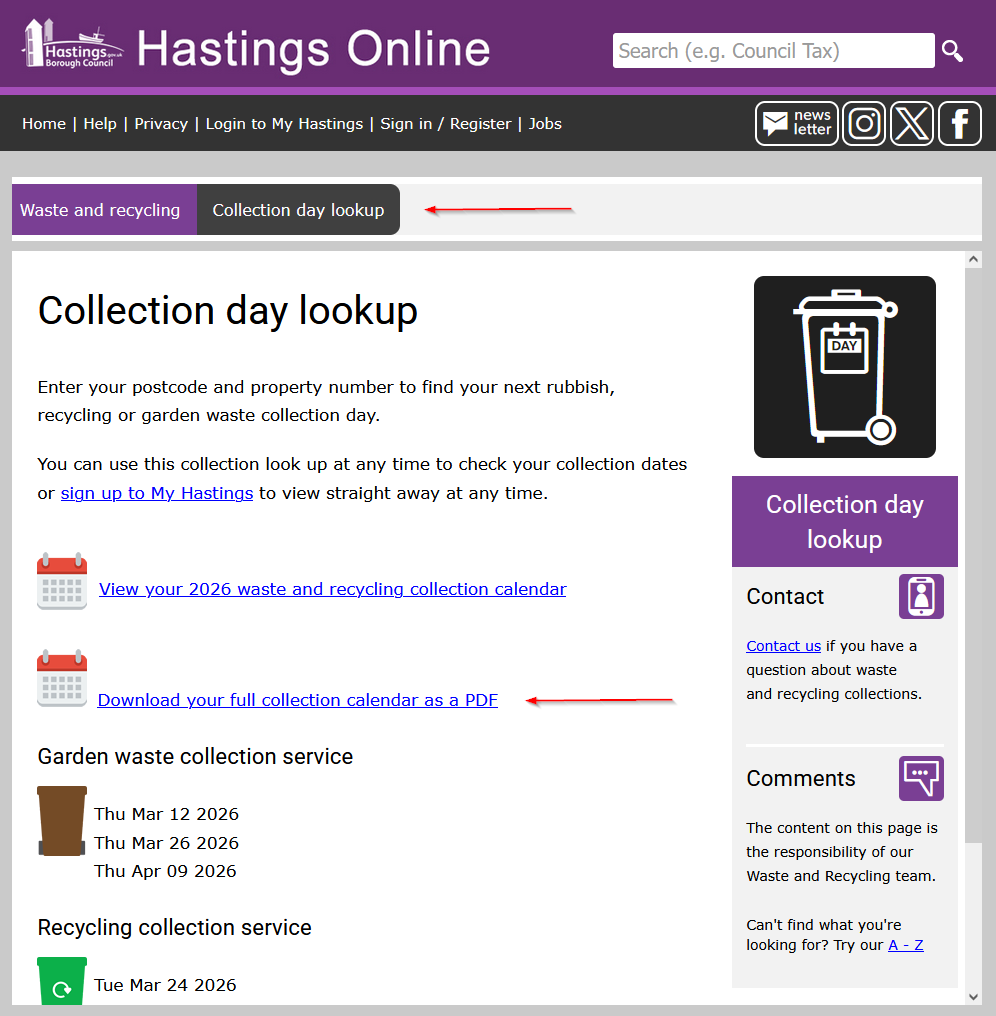
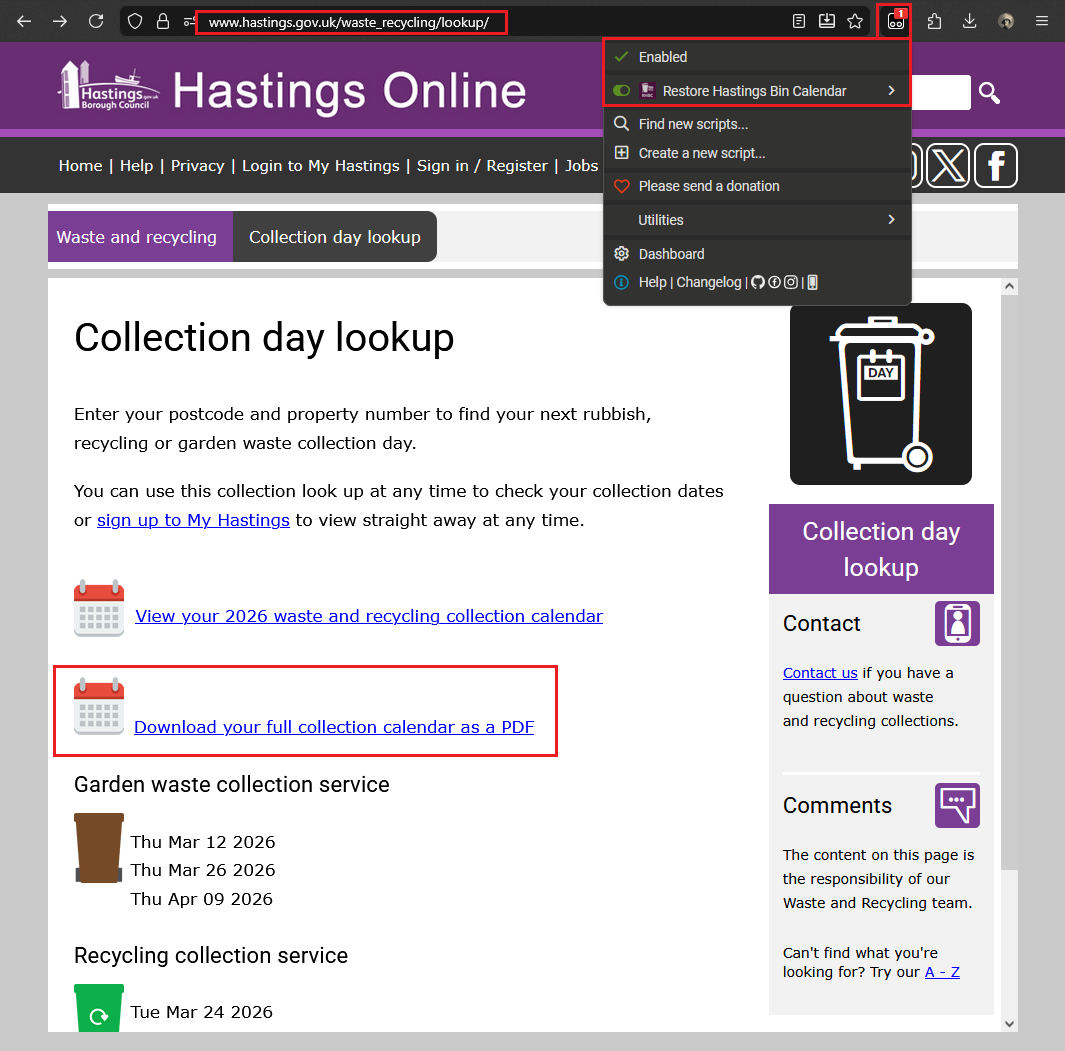
Adjustments to readme.

diff --git a/README.md b/README.md
@@ -18,6 +18,7 @@ All efforts have been taken to make the PDF look as much like the original PDF p
 
 ## How to use it
 1. Go to: https://www.hastings.gov.uk/waste_recycling/lookup/
+2. Make sure Tampermonkey is running with the script enabled - you should see a red (1) badge on the icon.
 2. Run your normal address lookup
 3. Click **Download your full collection calendar as a PDF**
 
@@ -26,7 +27,7 @@ All efforts have been taken to make the PDF look as much like the original PDF p
 ## Comparisons
 ### Weekly
 | [Original](docs/original/RecTueRefTue.pdf) | [New](docs/new/RecTueRefTue-2026.pdf) |
-| --- | --- |
+| :--- | :--- |
 | ![Original weekly calendar](docs/original/RecTueRefTue.png) | ![New weekly calendar](docs/new/RecTueRefTue-2026.png) |
 
 ### Fortnightly
